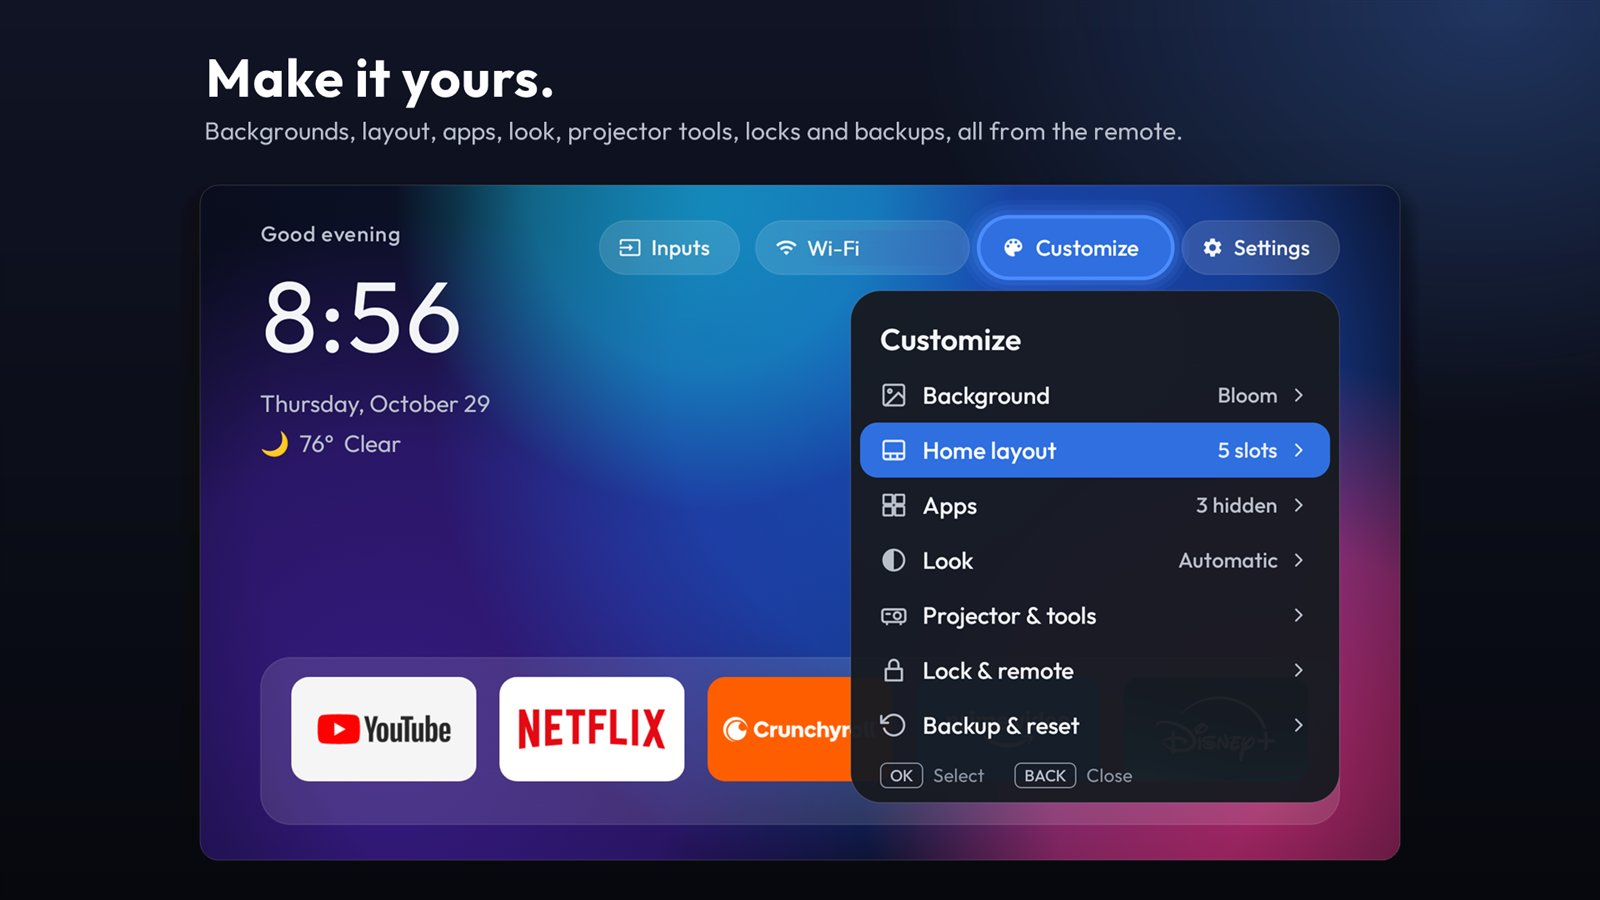
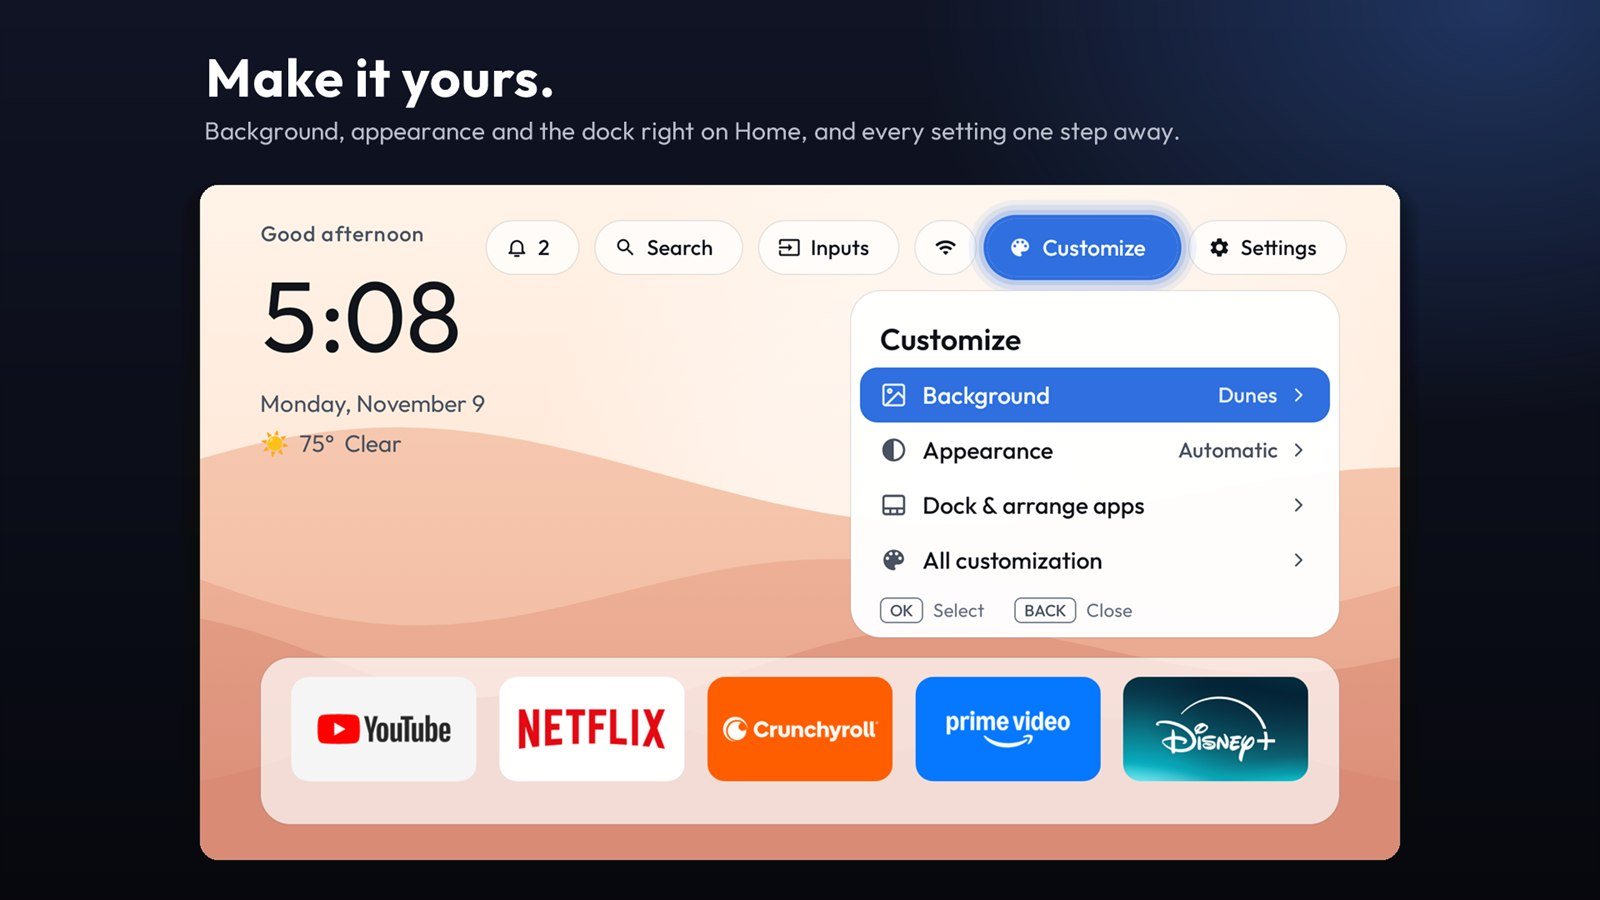
README: screenshots of search and Customization
New 10-search (with completion and titles on your apps) and
11-customization; 03-customize now shows the quick sheet. Same promo
style as the others (dev-tools/promo-lib.ps1), 1600x900 JPG, no
metadata. Taken on the JMGO N3 4K with the Wi-Fi name hidden (Top bar >
Wi-Fi: Signal only, put back afterwards). The README notes that posters
come from TMDB and belong to their owners.

diff --git a/README.md b/README.md
@@ -11,8 +11,9 @@ There are no accounts, no ads and no tracking. It's controlled entirely from the
 | ![Quick settings](docs/screenshots/02-quick-settings.jpg) | ![Customize](docs/screenshots/03-customize.jpg) |
 | ![App options](docs/screenshots/04-app-options.jpg) | ![Arranging apps](docs/screenshots/05-arrange.jpg) |
 | ![Light and dark](docs/screenshots/06-light-dark.jpg) | ![Backgrounds](docs/screenshots/07-backgrounds.jpg) |
+| ![Search](docs/screenshots/10-search.jpg) | ![Customization](docs/screenshots/11-customization.jpg) |
 
-App logos in the screenshots belong to their owners. They're shown only because those apps were installed on the test device.
+App logos in the screenshots belong to their owners. They're shown only because those apps were installed on the test device. Posters in the search screenshot come from TMDB and belong to their owners.
 
 ## Before you start
 
